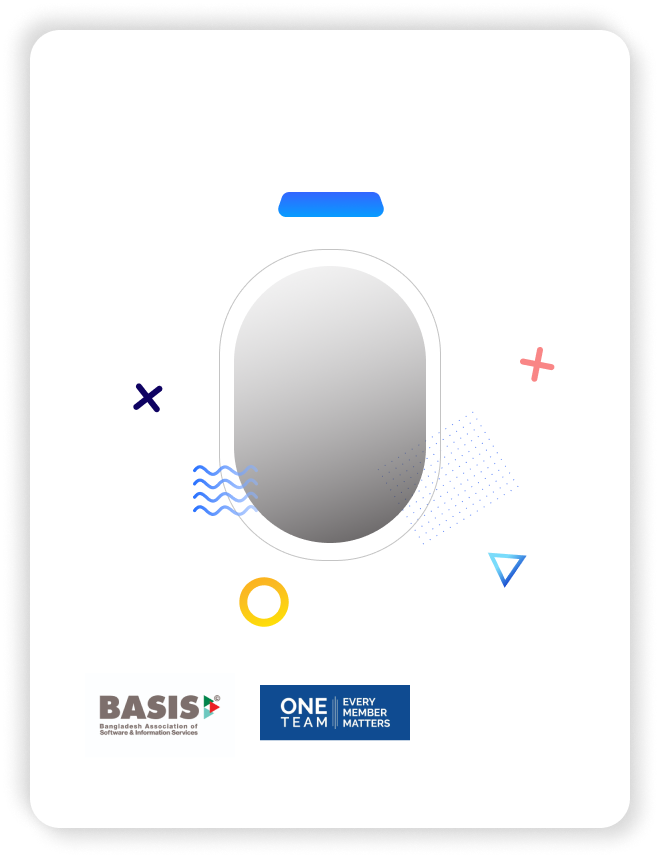
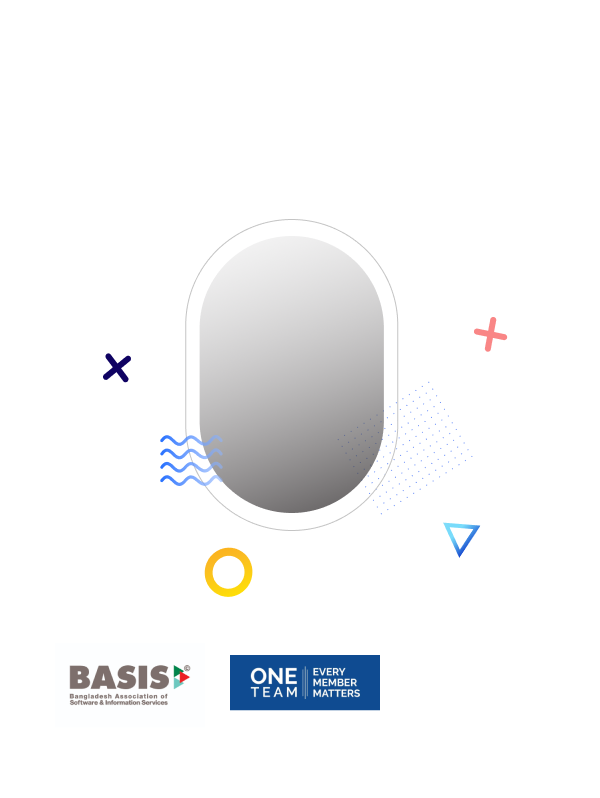
updated responsive

diff --git a/profile/tanvir.html b/profile/tanvir.html
@@ -70,13 +70,15 @@
           <div class="profile-section">
             <div class="card">
               <!-- <img src="/img/bio-card.png" alt="" srcset="" /> -->
-              <button>BIO</button>
-              <p style="margin-top:40px">It is a long established fact that a reader will be distracted by the readable content of a page when looking at its layout. The point of using Lorem Ipsum is that it has a more-or-less normal distribution of letters, as opposed to using 'Content here, content here', making it look like readable English. Many desktop publishing packages and web page editors now use Lorem Ipsum as their default model text, and a search for 'lorem ipsum' will uncover many web sites still in their infancy. Various versions have evolved over the years, sometimes by accident, sometimes on purpose (injected humour and the like).</p>
+              <div>BIO</div>
+              <p style="margin-top:40px">Tanvir Hossain Khan began His professional journey in 2012 and has since worked on several companies and founded his own company Dreamerz Lab in 2015 which is the first company to commercially work with XR technologies in the global market from Bangladesh.</p>
+              <p style="margin-top:20px">His vision is always to put industry first by empowering our industry with 4IR technologies especially with Augmented Reality, Virtual Reality, Mixed Reality</p>
+              <p style="margin-top:20px">To achieve that vision, his belief is to collaborate and work together as a single unit so that we can prepare and represent ourselves in the global platform</p>
             </div>
             <div class="profile-card">
               <div class="profile-content">
                 <div style="color:rgba(78, 78, 78, 0.9022)">
-                  <div style="margin-top:30px">
+                  <div>
                     <h2>Tanvir Hassain Khan</h2>
                     <h4>CEO, Dreamerz Lab Limited</h4>
                     <h3 style="color:rgba(31, 77, 240, 1)">ONE TEAM</h3>
@@ -85,17 +87,24 @@
                 </div>
               </div>
 
-              <img src="/img/mid-card-section.png" alt="" />
+              <!-- <img src="/img/mid-card-section.png" alt="" /> -->
             </div>
             <div class="card">
               <!-- <img src="/img/agenda-card.png" alt="" srcset="" /> -->
-              <button>MY AGENDA</button>
+              <div>MY AGENDA</div>
               <p style="margin-top:40px">It is a long established fact that a reader will be distracted by the readable content of a page when looking at its layout. The point of using Lorem Ipsum is that it has a more-or-less normal distribution of letters, as opposed to using 'Content here, content here', making it look like readable English. Many desktop publishing packages and web page editors now use Lorem Ipsum as their default model text, and a search for 'lorem ipsum' will uncover many web sites still in their infancy. Various versions have evolved over the years, sometimes by accident, sometimes on purpose (injected humour and the like).</p>
             </div>
+            
           </div>
+          <div class="headerFooter">
+            <h3>“ Collaboration Is ALWAYS</h3><h3>
+            Better Than Competition ”</h3>
+            <p>..........Tanvir Hossain Khan</p>
+            </div>
         </header>
         <section class="section-container">
           <div class="section-inner-container">
+            <h2 class="others-member-title">Others Members</h2>
             <ul id="memberSlider">
               <li class="li_member">
                 <div class="member-img">

diff --git a/css/main.css b/css/main.css
@@ -19,13 +19,23 @@ body {
   margin-top: 20px;
   margin-bottom: 100px;
   height: auto;
+  text-align: center;
 }
+.others-member-title {
+  margin-top: 100px;
+  margin-bottom: 60px;
+  text-align: center;
+  font-family: "PT Sans", sans-serif;
+  font-size: 25px;
+  color: #2f80ed;
+}
+
 .header {
   background-image: url("../img/heroBg.png");
   background-repeat: no-repeat;
   background-position: center;
   background-size: cover;
-  height: 110vh;
+  height: 140vh;
 }
 
 .header-body {
@@ -319,7 +329,7 @@ body {
   width: 100px;
   margin: 0 auto;
   color: #fff;
-  margin-top: 36px;
+  margin-top: 20px;
   margin-bottom: 30px;
 }
 .button {
@@ -476,7 +486,7 @@ textarea {
   background-repeat: no-repeat;
   background-position: center;
   background-size: 100% 100%;
-  height: 150vh;
+  height: 155vh;
 }
 .backBtn {
   text-decoration: none;
@@ -497,11 +507,14 @@ textarea {
   clear: both;
   display: flex;
   justify-content: space-between;
+  align-items: stretch;
   padding-top: 50px;
 }
 
 .profile-section img {
-  width: 600px;
+  width: 100%;
+  /* height: 100%; */
+  margin-top: -15px !important;
 }
 
 .li_member {
@@ -533,42 +546,48 @@ textarea {
 }
 .profile-content {
   text-align: center;
-  position: absolute;
   z-index: 22;
-  padding: 20px;
+  padding: 5px;
   line-height: 5px;
-  margin-left: 120px;
-  margin-top: -80px;
+  background-image: url("/img/mid-card-section.png");
+  background-repeat: no-repeat;
+  background-position: center;
+  background-size: 100% 100%;
+  height: 600px;
+  margin-top: -70px;
+  width: 400px;
 }
 .bio-card img {
   width: 100%;
 }
-.profile-card img {
-  width: 100%;
-  position: relative;
-  z-index: 0;
-  margin-top: -80px;
-}
+
 .agenda-card img {
   width: 100%;
 }
 .card {
-  width: 436px;
-  height: 378px;
+  width: 40%;
+  height: 82vh;
   background-color: white;
   filter: drop-shadow(0px 5px 10px rgba(0, 0, 0, 0.18));
   padding: 15px;
   border-radius: 20px;
   margin: 15px;
   text-align: center;
+  overflow: auto;
+  /* display: flex;
+  justify-content: center;
+  flex-direction: column; */
 }
-.card > button {
+.card > div {
   border: none;
-  position: absolute;
+  /* position: fixed; */
   width: 129px;
-  height: 31px;
-  left: 118px;
-  top: 0px;
+  margin: 0 auto;
+  padding: 5px;
+  /* height: 31px; */
+  /* left: auto;
+   */
+  margin-top: -18px;
   text-align: center;
   background: linear-gradient(180deg, #079cff 0%, #3366ff 100%);
   box-shadow: -4px -4px 16px rgba(255, 255, 255, 0.6),
@@ -579,9 +598,32 @@ textarea {
   font-weight: bold;
   font-size: 15px;
   line-height: 20px;
-  /* identical to box height */
 
   text-align: center;
 
   color: #e7eeff;
+}
+.card > p {
+  color: rgba(73, 70, 71, 0.81);
+  font-family: PT Serif;
+  font-size: 17px;
+  line-height: 24.5px;
+  font-weight: 700;
+}
+
+.headerFooter {
+  text-align: center;
+  color: white;
+  display: flex;
+  flex-direction: column;
+  justify-content: center;
+  /* font-weight: 700; */
+  /* font-size: 20px; */
+  line-height: 0px;
+  margin-top: 20px;
+}
+.headerFooter > p {
+  margin-left: 20%;
+  color: rgba(26, 23, 23, 0.83);
+  font-weight: 700;
 }

diff --git a/css/responsive.css b/css/responsive.css
@@ -180,7 +180,7 @@
 
   .card {
     width: 350px;
-    height: 300px;
+    height: auto;
     padding: 15px;
     margin: 15px;
     text-align: center;
@@ -200,19 +200,10 @@
     justify-content: center;
     padding-top: 50px;
   }
-
-  .profile-section img {
-    width: 100%;
-    margin-top: 10px;
-  }
   .profile-content {
-    padding: 50px;
-    font-size: 10px;
-    line-height: 5px;
-    margin-left: 90px;
-    margin-top: -30px;
+    margin: 10px auto;
+    width: 380px;
   }
-
   .ballot {
     padding: 10px 2px;
     border-radius: 20px;
@@ -232,19 +223,21 @@
   }
   #memberSlider {
     margin-bottom: -90px;
+    font-size: auto;
   }
   .contact-full {
     margin-top: -60px;
   }
   .header-profile {
     background-size: cover;
-    height: 310vh;
+    height: auto;
   }
 }
 
 @media only screen and (min-width: 768px) and (max-width: 1024px) {
   #memberSlider {
     margin-bottom: -60px;
+    font-size: 12px;
   }
   .contact-full {
     margin-top: -60px;
@@ -445,20 +438,12 @@
     left: 20px;
     margin-top: -30px;
   }
-  .profile-card img {
-    margin-top: -10px;
-  }
   .profile-content {
-    text-align: center;
-    position: absolute;
-    z-index: 22;
-    padding: 10px;
-    font-size: 10px;
-    line-height: 5px;
-    margin-left: 60px;
+    height: 400px;
     margin-top: -30px;
+    width: 300px;
+    font-size: 12px;
   }
-
   .ballot {
     padding: 10px 2px;
     border-radius: 20px;
@@ -467,5 +452,12 @@
     color: #fff;
     margin-top: 10px;
     margin-bottom: 30px;
+  }
+  .section-inner-container {
+    margin-top: -50px;
+  }
+  .header-profile {
+    background-size: cover;
+    height: auto;
   }
 }
